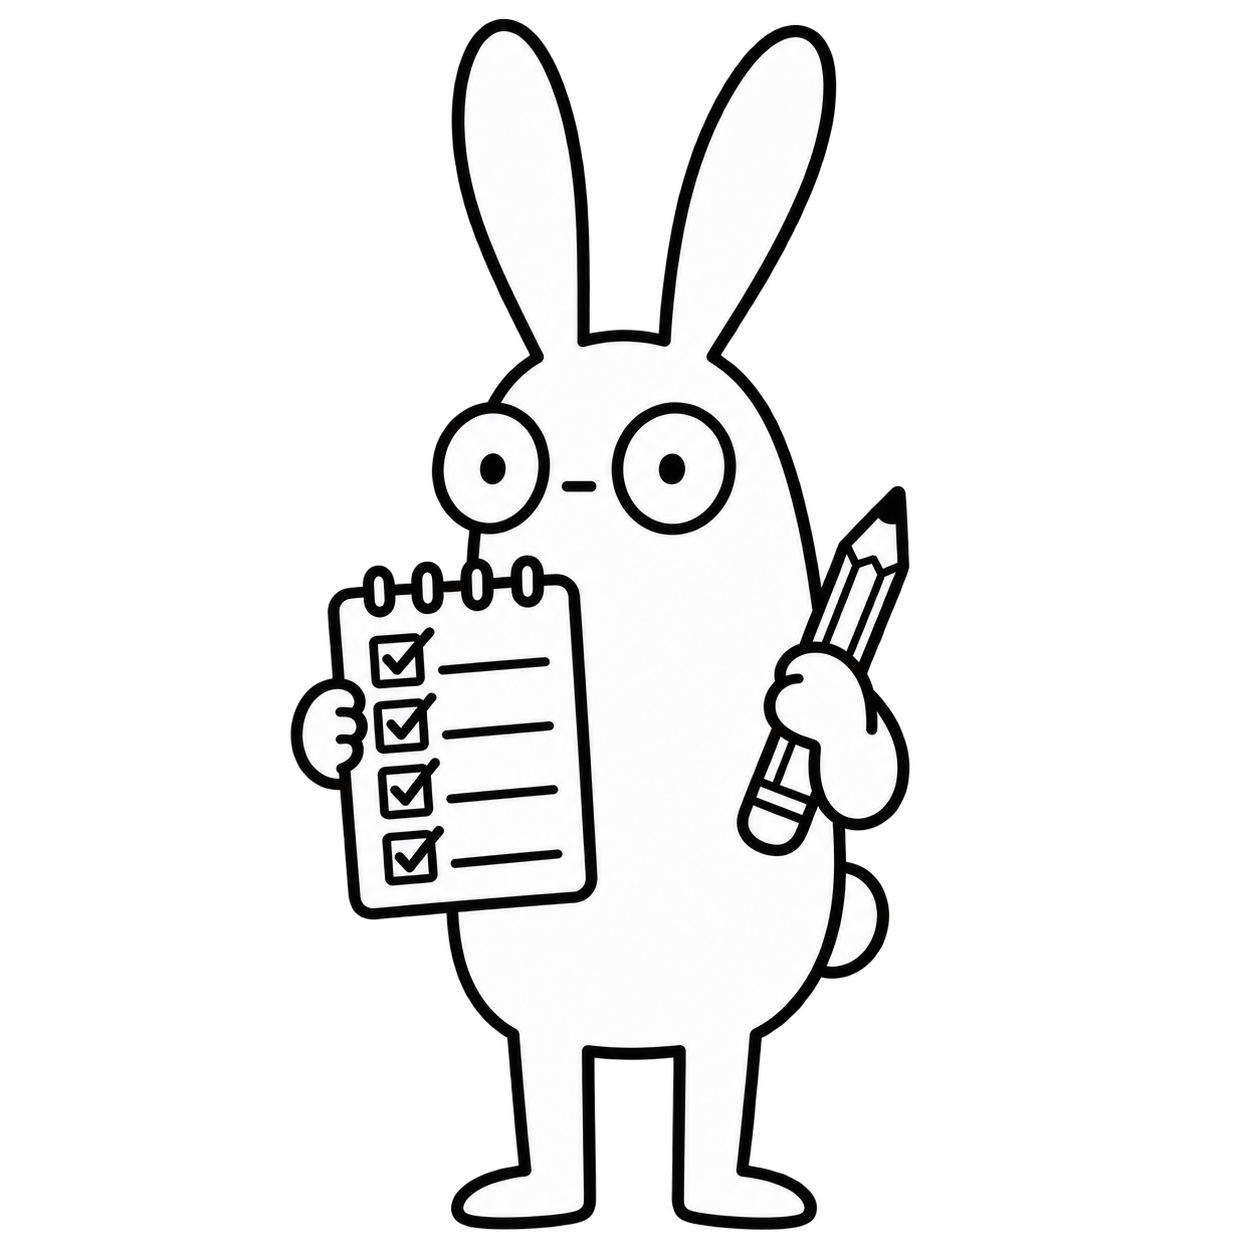
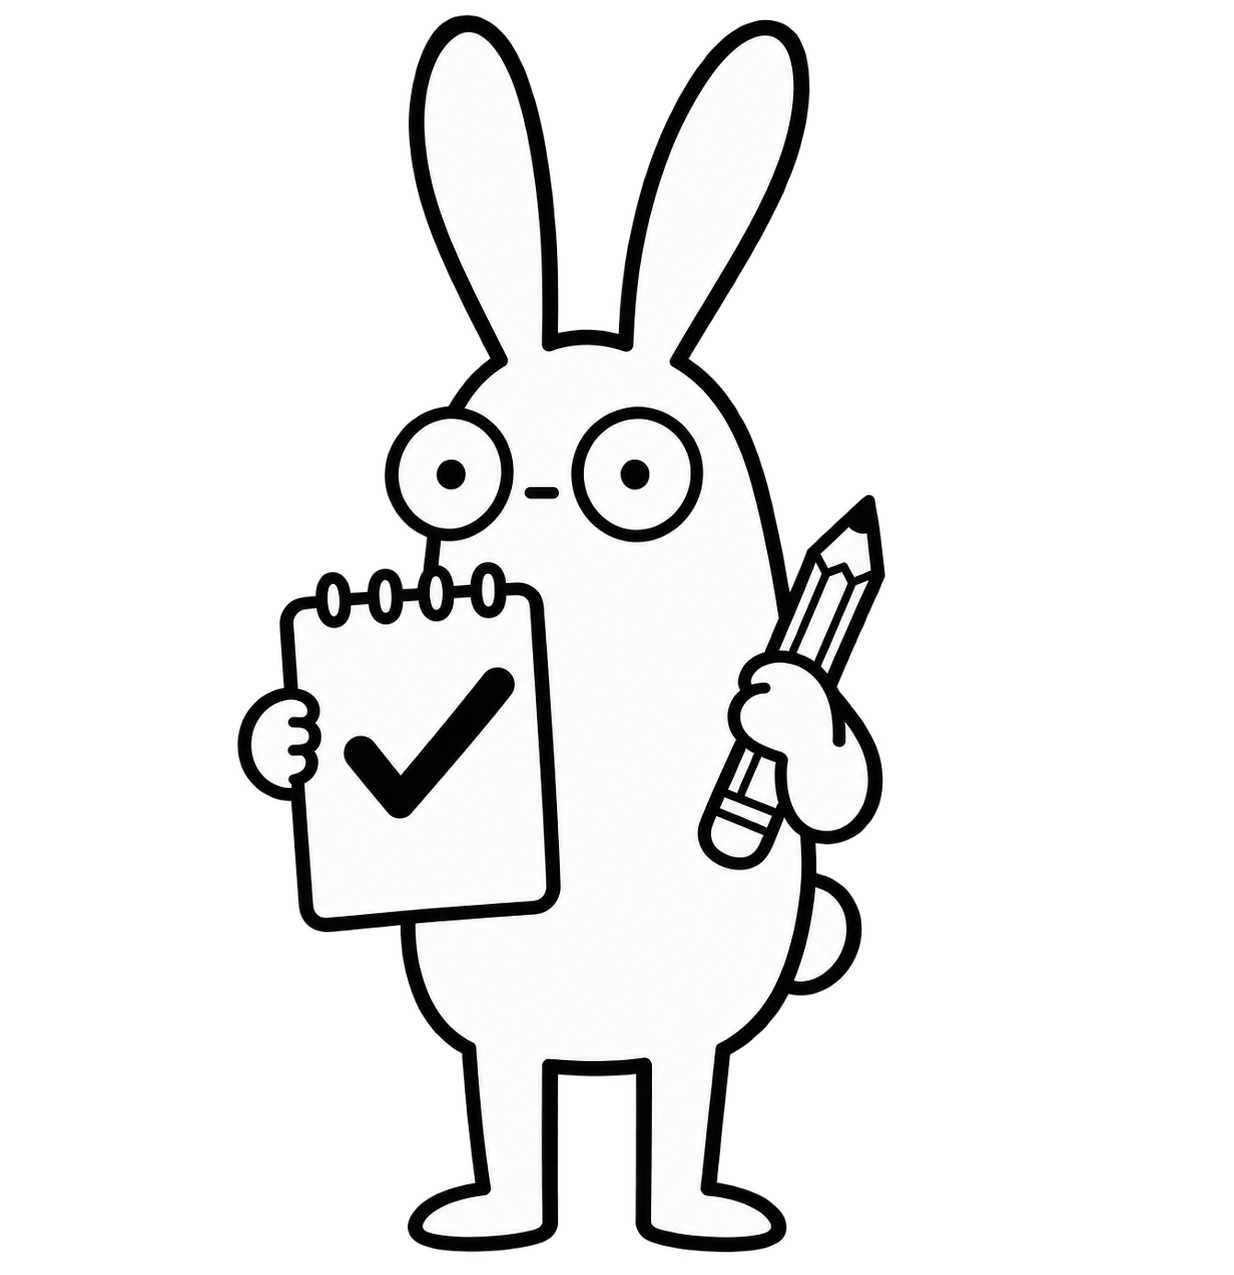
Make weekly goals dynamically follow the plan

Changed region(s): [[0.1848, 0.0, 0.7391, 0.9952]]

diff --git a/app/page.tsx b/app/page.tsx
@@ -122,8 +122,10 @@ export default function Home() {
 
   const todayPlan = weekPlan[4];
   const activePlan = weekPlan[activeWorkoutDay];
-  const weekCompleted = weekPlan.filter((day) => day.state === "已完成").length;
-  const weekProgressArt = weekCompleted === 0 ? "/rabbit-week-start.png" : weekCompleted >= 4 ? "/rabbit-week-complete.png" : "/rabbit-week-progress.png";
+  const weekTrainingCount = weekPlan.filter((day) => day.exercises.length > 0).length;
+  const weekCompleted = weekPlan.filter((day) => day.exercises.length > 0 && day.state === "已完成").length;
+  const weekIsComplete = weekTrainingCount > 0 && weekCompleted >= weekTrainingCount;
+  const weekProgressArt = weekCompleted === 0 ? "/rabbit-week-start.png" : weekIsComplete ? "/rabbit-week-complete.png" : "/rabbit-week-progress.png";
   const activeSetCount = activePlan.exercises.reduce((sum, exercise) => sum + exercise.sets, 0);
   const completed = doneSets.filter(Boolean).length;
   const allSetsDone = activeSetCount > 0 && completed === activeSetCount;
@@ -241,7 +243,7 @@ export default function Home() {
     <main className="app-shell"><section className="phone-frame">
       {tab === "today" && !workoutOpen && !foodEntryOpen && <div className="page-view">
         <header className="topbar"><div><p className="eyebrow">8月14日 · 星期五</p><h1>早上好，Mia</h1></div><button className="avatar" onClick={() => setTab("profile")} aria-label="打开个人资料">◌</button></header>
-        <section className="hero-panel"><div><span className="chapter">今日 · CHAPTER 04</span><h2>{workoutDone ? "训练完成，记上一笔。" : "今天，动一点就好。"}</h2><p>本周已完成 {workoutDone ? 3 : 2} / 4 次训练</p></div><Sprite sheet="today" col={0} row={workoutDone ? 2 : 0} positionY={workoutDone ? 96 : undefined} className="hero-mascot" /></section>
+        <section className="hero-panel"><div><span className="chapter">今日 · CHAPTER 04</span><h2>{workoutDone ? "训练完成，记上一笔。" : "今天，动一点就好。"}</h2><p>本周已完成 {weekCompleted} / {weekTrainingCount} 次训练</p></div><Sprite sheet="today" col={0} row={workoutDone ? 2 : 0} positionY={workoutDone ? 96 : undefined} className="hero-mascot" /></section>
         <section className="workout-card comic-card"><div className="card-heading"><div><span className="kicker">今日训练</span><h3>{todayPlan.name}</h3><p>{todayPlan.exercises.length}个动作 · {todayPlan.exercises.reduce((sum, exercise) => sum + exercise.sets, 0)}组 · 约45分钟</p></div><span className="status-stamp">{workoutDone ? "DONE" : "TODAY"}</span></div><div className="progress"><span style={{ width: workoutDone ? "100%" : `${Math.max(8, completed / Math.max(1, activeSetCount) * 100)}%` }} /></div><button className="primary-action" onClick={workoutDone ? () => { setTab("training"); setPlanDetailIndex(4); } : () => beginWorkout(4)}>{workoutDone ? "查看训练总结" : completed ? "继续今日训练" : "开始训练"}<span>→</span></button></section>
         <section className="food-section"><div className="section-title"><div><span className="kicker">今日饮食</span><h3>{totalCalories.toLocaleString()} kcal</h3></div><button className="text-action" onClick={() => openFoodEntry()}>+记录饮食</button></div><div className="meal-grid">{["早餐", "午餐", "晚餐", "零食"].map((type) => {
           const entries = meals.filter((meal) => meal.type === type);
@@ -251,7 +253,7 @@ export default function Home() {
 
       {tab === "training" && !workoutOpen && !planEditorOpen && planDetailIndex === null && <div className="page-view">
         <header className="page-header"><div><p className="eyebrow">WEEK 33</p><h1>本周训练</h1></div><button className="square-button" onClick={() => openPlanEditor(4)} aria-label="编辑训练计划">✎</button></header>
-        <div className="week-summary comic-card"><div><strong>{weekCompleted}/4</strong><span>本周完成</span></div><img src={weekProgressArt} alt="" className="week-mascot" /></div>
+        <div className="week-summary comic-card"><div><strong>{weekCompleted}/{weekTrainingCount}</strong><span>{weekTrainingCount ? "本周完成" : "尚未设置训练日"}</span></div><img src={weekProgressArt} alt="" className="week-mascot" /></div>
         <p className="tap-hint">周一到周日都可以查看；编辑时可修改动作、组数、次数和重量。</p>
         <div className="plan-list">{weekPlan.map((item, index) => <button className={`plan-row ${item.state === "今日" ? "current" : ""}`} key={item.day} onClick={() => setPlanDetailIndex(index)}><span className="day-label">{item.short}</span><span className="plan-copy"><strong>{item.day} · {item.name}</strong><small>{item.exercises.length ? `${item.exercises.length}个动作 · ${item.exercises.reduce((sum, exercise) => sum + exercise.sets, 0)}组` : "恢复与休息"}</small></span><em>{item.state === "今日" ? "今天 ›" : `${item.state} ›`}</em></button>)}</div>
       </div>}
@@ -321,7 +323,7 @@ export default function Home() {
       {tab === "profile" && <div className="page-view">
         <header className="page-header"><div><p className="eyebrow">PROFILE</p><h1>我的</h1></div><button className="square-button" onClick={() => setInfoModal({ title: "设置", body: "账号、隐私与数据设置将在正式版中集中管理。当前 Demo 的记录只保存在本设备。" })} aria-label="设置">⚙</button></header>
         <section className="profile-hero"><div><span className="kicker">训练日志者</span><h2>Mia</h2><p>目标：增肌与体能</p></div><Sprite sheet="today" col={1} row={0} className="profile-mascot" /></section>
-        <div className="body-stats"><article><strong>165</strong><span>cm</span><small>身高</small></article><article><strong>56.8</strong><span>kg</span><small>体重</small></article><article><strong>4</strong><span>次</span><small>周目标</small></article></div>
+        <div className="body-stats"><article><strong>165</strong><span>cm</span><small>身高</small></article><article><strong>56.8</strong><span>kg</span><small>体重</small></article><article><strong>{weekTrainingCount}</strong><span>次</span><small>周目标</small></article></div>
         <section className="profile-list"><button onClick={() => setInfoModal({ title: "健身目标", body: "当前目标：增肌与体能。正式版可在这里修改目标，但不会自动生成训练或饮食计划。" })}><span>◎</span><div><strong>健身目标</strong><small>增肌与体能</small></div><em>›</em></button><button onClick={() => setInfoModal({ title: "单位设置", body: "当前使用 kg、cm 和 kcal。Demo 已统一采用公制单位。" })}><span>⇄</span><div><strong>单位设置</strong><small>kg · cm · kcal</small></div><em>›</em></button><button onClick={() => { setNotificationsOn((value) => !value); showToast(notificationsOn ? "计时提醒已关闭" : "计时提醒已开启"); }}><span>◷</span><div><strong>计时提醒</strong><small>训练与组间通知</small></div><em>{notificationsOn ? "●" : "○"}</em></button><button onClick={() => showToast("离线模式已准备就绪")}><span>↓</span><div><strong>离线模式</strong><small>PWA 已准备就绪</small></div><em>✓</em></button></section><p className="privacy-note">记录用于帮你回顾，不是身体评分。</p>
       </div>}
 
